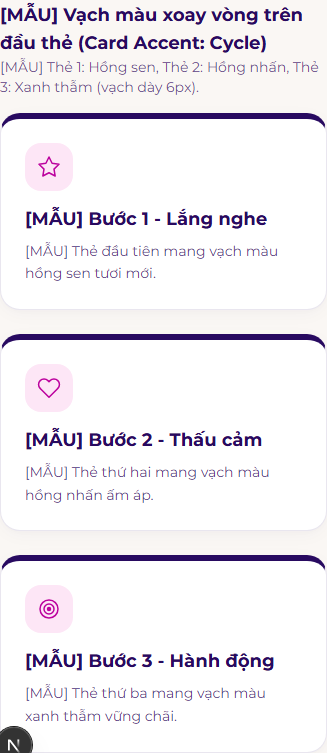
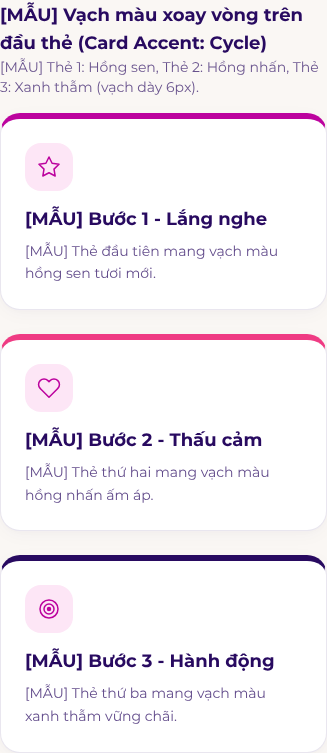
docs(pk20): QA review, CMS guide wording, screenshots
Claude-Session: https://claude.ai/code/session_01Krq6WRtvEMxH8kuow1WK42

diff --git a/docs/tasks/reviews/PK-20.md b/docs/tasks/reviews/PK-20.md
@@ -1,0 +1,36 @@
+# Review PK-20 – Vạch màu đầu thẻ, thẻ kính mờ, thẻ nổi bật, BrandImage
+
+**Kết luận: ĐẠT sau PK-20c** (07/11). Planning QA trên `task/PK-20-card-image` @ `b3566fc` (PC nhà). Không migration DB, không migration dữ liệu Puck (field mới, mặc định rỗng), không `REVIEW-REQUIRED`. Snapshot cũ không đổi.
+
+## Bản PC nhà nộp
+
+- Tab Kiểu → Thẻ con:
+  - `cardAccent` (8 màu brand hoặc Xoay vòng);
+  - `cardFrame: 'glass'`, có nền tối và `@supports` dự phòng.
+- `highlight` (`outline` / `navy`) cho thẻ `IconCardGrid` và khối `Card`. Thẻ `navy` có `data-eb-card-solid` nên "Không khung" giữ nền.
+- `BrandImage` (4 hình dạng, nhãn, thẻ chú thích có avatar), dùng ở HeroImage, HeroTwoEntries, ImageText, Card, ImageWidget. Field rỗng thì HTML như cũ.
+- Demo `/styleguide`, unit, e2e chạy 1 lần, Hướng dẫn CMS đúng phạm vi (Prettier không sửa lan).
+
+## PK-20c (Planning sửa)
+
+| #   | Vấn đề                                                                                                                                                                                                                               | Sửa                                                                                                                                                |
+| --- | ------------------------------------------------------------------------------------------------------------------------------------------------------------------------------------------------------------------------------------ | -------------------------------------------------------------------------------------------------------------------------------------------------- |
+| B1  | **"Xoay vòng" ra cả 3 thẻ cùng màu xanh thẫm** (ảnh `accent-1440.png` của máy cũng thấy). Selector `:nth-child(3n+k) > [data-eb-card]` khớp vị trí của **lưới** trong khối, nên mọi thẻ nhận cùng một màu. E2E chỉ kiểm độ dày vạch. | Chỉ đếm thẻ trong hàng của nó (`[data-eb-card]:nth-child`), hoặc đếm phần tử bọc khi thẻ nằm một mình trong đó (`:only-child`). E2E kiểm đủ 3 màu. |
+| B2  | Vạch màu thêm `overflow:hidden` vào thẻ, sẽ cắt các nhãn nằm trên mép thẻ (VD "Phổ biến").                                                                                                                                           | Bỏ `overflow:hidden`; vạch là `border-top` nên không cần.                                                                                          |
+| B3  | **Avatar có ô "Hoặc đường dẫn ảnh trực tiếp"** (nhập URL tự do): ảnh không qua Thư viện media; `next/image` báo lỗi với tên miền lạ nên trang có thể vỡ. URL đã lấy cũng được lưu vào dữ liệu trang và không cập nhật lại.           | Bỏ ô URL, chỉ chọn từ Thư viện media, tối đa 4. Server luôn lấy lại URL theo id (dữ liệu cũ có URL tự do bị bỏ qua).                               |
+| B4  | `BrandImage` với `fill` luôn thêm `w-full h-full`, đè `h-12 w-12` của ảnh icon trong thẻ (CSS sinh ra `h-full` đứng sau nên thắng) và thêm `h-full` cho ảnh bên của HeroTwoEntries (bản cũ không có).                                | Chỉ thêm khi nơi gọi chưa đặt kích thước.                                                                                                          |
+| B5  | Ảnh **vòm trái**: nhãn bị cung tròn cắt mất chữ (1440 và 375).                                                                                                                                                                       | Nhãn / chú thích lùi vào phía có vòm (32px điện thoại, 64px máy tính). E2E kiểm vị trí.                                                            |
+| B6  | Demo, test và Hướng dẫn CMS dùng emoji "✨" trong nhãn (brand: không dùng emoji làm icon). Hướng dẫn CMS ghi "(PK-20)" trong tên mục.                                                                                                | Bỏ emoji, bỏ mã task. Thêm ghi chú avatar chỉ là ảnh trang trí, không gắn tên người.                                                               |
+| B7  | Gộp `main` (PK-19) xung đột ở `resolve.server.ts` (2 khối thêm cạnh nhau).                                                                                                                                                           | Giữ cả hai.                                                                                                                                        |
+
+## Đã kiểm
+
+- **Typecheck:** sạch. **Lint:** 0 lỗi. **Prettier:** sạch trên file đã sửa. **Build:** xanh.
+- **Cả bộ unit** trên DB trống: **245 / 245 file xanh** (2492 test).
+- **E2E** `pk20-card-image` (bản build production) 2 / 2 (1440, 375): vạch đủ 3 màu, thẻ navy, nhãn / chú thích trong khung ảnh, không cuộn ngang, axe sạch.
+- **Ảnh** `docs/screenshots/pk20/` chụp lại sau khi sửa.
+
+## Nhắc Hana
+
+- Vạch màu, kính mờ: tab Kiểu → Thẻ con. Kính mờ đẹp nhất khi khối có nền ảnh hoặc nền màu.
+- Avatar trong thẻ chú thích: chỉ là ảnh trang trí, không ghi tên người.

diff --git a/docs/HUONG_DAN_CMS.md b/docs/HUONG_DAN_CMS.md
@@ -2370,13 +2370,13 @@ Bấm vào một khối trên trang. Cột phải hiện 3 tab:
     - `Bỏ viền`: Ẩn viền xung quanh thẻ con, giữ lại màu nền và bóng nhẹ (nếu có).
     - `Bỏ viền và bóng`: Làm phẳng thẻ con, chỉ giữ lại màu nền của thẻ.
     - `Không khung`: Xoá sạch toàn bộ viền, bóng và nền thẻ con (thẻ trở nên trong suốt hoà vào nền khối; riêng thẻ nền xanh thẫm solid được giữ lại để chữ trắng không chìm).
-    - `Kính mờ (PK-20)`: Thẻ con trong suốt 70% có hiệu ứng mờ hậu cảnh (`backdrop-blur`) và viền trắng mờ tinh tế, thích hợp đặt trên nền ảnh hoặc nền màu. Trên nền tối tự động chuyển sang kính mờ 12%.
-  - **Thẻ con → Vạch màu đầu thẻ (PK-20)**: vẽ một vạch màu 6px trên đỉnh mỗi thẻ con. Có thể chọn 1 trong 8 màu thương hiệu, hoặc chọn **Xoay vòng** để các thẻ lần lượt mang màu Hồng sen → Hồng nhấn → Xanh thẫm.
-  - **Khối Card & IconCardGrid → Thẻ nổi bật (PK-20)**: mỗi thẻ có thể chọn Kiểu nổi bật gồm `Mặc định`, `Viền hồng` (Accent Pink 2px) hoặc `Nền xanh thẫm` (Deep Navy, chữ trắng).
-  - **Ảnh thương hiệu (BrandImage - PK-20)**: các khối ảnh (Hero Ảnh biểu tượng, Hero 2 Lối vào, Ảnh & Chữ, Thẻ, Widget Ảnh) hỗ trợ:
+    - `Kính mờ`: Thẻ con trong suốt 70% có hiệu ứng mờ hậu cảnh (`backdrop-blur`) và viền trắng mờ tinh tế, thích hợp đặt trên nền ảnh hoặc nền màu. Trên nền tối tự động chuyển sang kính mờ 12%.
+  - **Thẻ con → Vạch màu đầu thẻ**: vẽ một vạch màu 6px trên đỉnh mỗi thẻ con. Có thể chọn 1 trong 8 màu thương hiệu, hoặc chọn **Xoay vòng** để các thẻ lần lượt mang màu Hồng sen → Hồng nhấn → Xanh thẫm.
+  - **Khối Card & IconCardGrid → Thẻ nổi bật**: mỗi thẻ có thể chọn Kiểu nổi bật gồm `Mặc định`, `Viền hồng` (Accent Pink 2px) hoặc `Nền xanh thẫm` (Deep Navy, chữ trắng).
+  - **Ảnh thương hiệu (BrandImage)**: các khối ảnh (Hero Ảnh biểu tượng, Hero 2 Lối vào, Ảnh & Chữ, Thẻ, Widget Ảnh) hỗ trợ:
     - `Hình dạng ảnh`: Bo góc thường, Vòm trái (bo lớn 120px góc trái), Vòm phải (bo lớn 120px góc phải), Mép sóng cong tự nhiên (Wave).
-    - `Nhãn trên ảnh`: viên xanh thẫm chữ trắng nổi bật ở góc trên trái (VD: "✨ TIÊU CHUẨN KHAI VẤN").
-    - `Thẻ chú thích`: thẻ trắng nổi bo góc ở góc dưới (trái hoặc phải), gồm tiêu đề đậm, dòng phụ màu hồng sen, và danh sách tối đa 4 avatar tròn chồng nhau.
+    - `Nhãn trên ảnh`: viên xanh thẫm chữ trắng nổi bật ở góc trên trái (VD: "TIÊU CHUẨN KHAI VẤN"; không dùng emoji).
+    - `Thẻ chú thích`: thẻ trắng nổi bo góc ở góc dưới (trái hoặc phải), gồm tiêu đề đậm, dòng phụ màu hồng sen, và tối đa 4 avatar tròn chồng nhau (chỉ chọn từ Thư viện media; avatar là ảnh trang trí, không gắn tên người để tránh thành lời chứng thực giả).
 - **Nâng cao**:
   - **Cách lề** trong / ngoài cho 4 cạnh; tick "Đặt cùng giá trị cho 4 cạnh" để đặt nhanh;
   - **Ẩn trên** máy tính / máy tính bảng / điện thoại;

diff --git a/docs/tasks/README.md b/docs/tasks/README.md
@@ -314,7 +314,7 @@ Quy tắc chung, thứ tự 2 dây (Laptop: HB-17 → 22, PC nhà: HB-23 → 13 
 | PK-17 | Đúng thiết kế: Hành trình kiểu Vòng tròn thật, Câu chuyện Hana bố cục "Ảnh trong khung cong", tab Kiểu tắt khung viền thẻ, bỏ ngoặc kép lặp ([prompt](prompts/PK-17.md)) | PK-16, không migration | PC nhà | QA 07/11: ĐẠT sau PK-17c ([review](reviews/PK-17.md)), PR gồm cả PK-16 |
 | PK-18 | Ảnh nền cho mọi khối (tab Kiểu → Nền → Ảnh + lớp phủ) và nút "Tải ảnh lên" cạnh "Tìm kiếm" trong hộp chọn ảnh ([prompt](prompts/PK-18.md)) | PK-17 (cùng tab Kiểu), không migration | Laptop | Prompt 07/11 |
 | PK-19 | Đúng thiết kế: Hệ sinh thái giải pháp bố cục "Theo nhóm" (icon, vạch màu, nhóm Signature / Masterclass, thẻ con có tiêu đề) + FAQ có mô tả, nhãn viên, thẻ liên hệ có ảnh, biểu tượng +/− ([prompt](prompts/PK-19.md)) | PK-16, migration dữ liệu Puck | Laptop | QA 07/11: ĐẠT sau PK-19c ([review](reviews/PK-19.md)) |
-| PK-20 | Thiết kế v2: vạch màu đầu thẻ, thẻ kính mờ, thẻ nổi bật, nhãn và thẻ chú thích trên ảnh, hình dạng ảnh (BrandImage) ([prompt](prompts/PK-20.md)) | PK-17 | PC nhà | Prompt 07/11 |
+| PK-20 | Thiết kế v2: vạch màu đầu thẻ, thẻ kính mờ, thẻ nổi bật, nhãn và thẻ chú thích trên ảnh, hình dạng ảnh (BrandImage) ([prompt](prompts/PK-20.md)) | PK-17 | PC nhà | QA 07/11: ĐẠT sau PK-20c ([review](reviews/PK-20.md)) |
 | PK-21 | Thiết kế v2: khối PhotoGallery, lưới thẻ trượt, FAQ cards/quick, ServiceCards detailed, Testimonial featured, ảnh tràn mép, form 1 cột, lead magnet danh sách, bài viết nổi bật, dải ghi chú ([prompt](prompts/PK-21.md)) | PK-19 | Laptop | Prompt 07/11 |
 | PK-22 | Đổ nội dung thiết kế v2 vào 6 mẫu trang (Trang chủ, Coach 1:1, Về Trạm, Tài nguyên, Cộng đồng, Liên hệ), trừ trang Chuyển mình đang chờ chốt; nội dung: [website-v2-noi-dung.md](../design/website-v2-noi-dung.md) ([prompt](prompts/PK-22.md)) | PK-20 | PC nhà | Prompt 07/11 |
 | HB-26           | **Gấp:** nội dung Habit Loop theo bản mới (`docs/content/habit-v2-ban-moi.md`), ẩn field cũ trùng (`quotes`, `onePercent.facts`), hiện câu trích bước Gọi tên / 28 ngày, lệnh nạp nội dung có dry-run ([prompt](prompts/HB-26.md), [review](reviews/HB-26.md)) | PR #276 merge – không migration             | PC nhà | QA 02/11: ĐẠT sau HB-26c, chờ merge – anh IT chạy lệnh nạp theo RUNBOOK |
